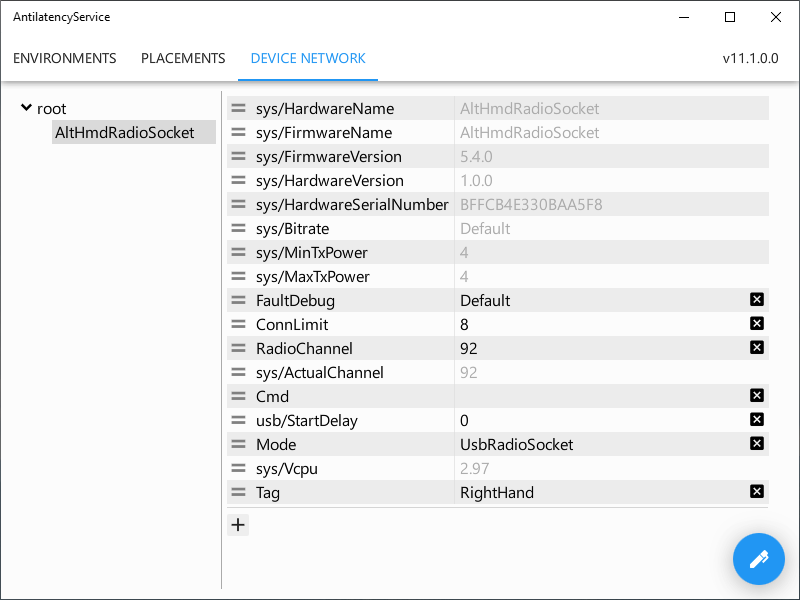
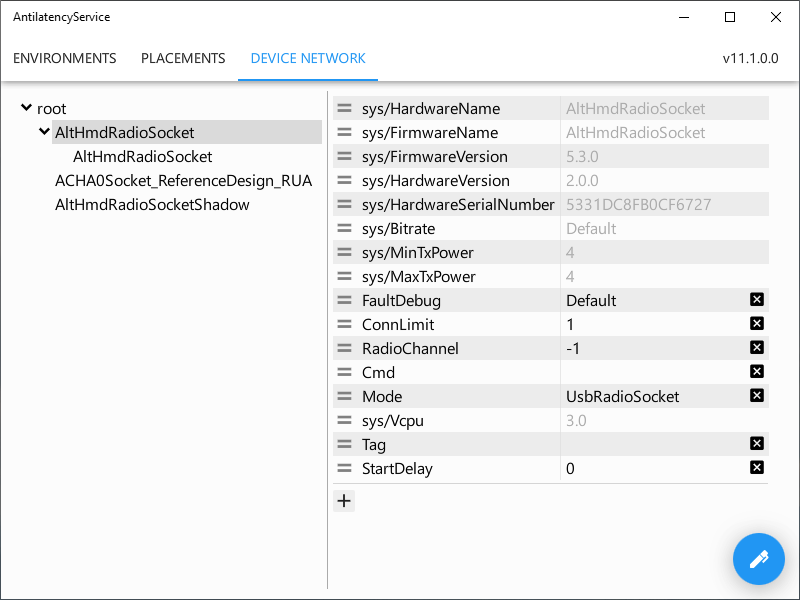
editted HMDSocketMode_ru

diff --git a/Assets/Tutorials/HMDSocketMode/HMDSocketMode_ru.cs b/Assets/Tutorials/HMDSocketMode/HMDSocketMode_ru.cs
@@ -33,14 +33,15 @@ public partial class Tutorials : Scope {
     [new Section("RadioSocket (wireless)")
 
 
-        [$"С версии прошивки 5.0.0 {Hardware.SocketUsbRadio} в wireless-режиме отображается в {Terms.Device_Tree} под именем *AltHmdRadioSocketShadow*. Для этого устройство необходимо подключить через USB. \nПри этом вам доступны все возможности для настройки параметров wireless режима: можно установить маску каналов, прописать серийный номер radio master или изменить режим работы."]
-
+        [$"С версии прошивки 5.0.0 {Hardware.SocketUsbRadio} в wireless-режиме отображается дополнительным узлом в {Terms.Device_Tree} под именем *AltHmdRadioSocketShadow*. Для этого устройство необходимо подключить через USB.  \nПри этом вам доступны все возможности для настройки параметров wireless режима: можно установить маску каналов, прописать серийный номер приёмника или изменить режим работы."]
+            [new Info($"Если вы подключите {Terms.Socket} в режиме wireless одновременно через USB и к {Terms.Socket} в режиме wired, то устройство дважды отобразится в {Terms.Device_Tree} под разными именами.")]
         [RadioSocket]
+        [RadioSocket1]
 
         [$"\n*Уникальные свойства:*"]
 
         [new UnorderedList()
-            [$"`MasterSN` - свойство, содержащее серийный номер приёмника, к которому будет подключаться конкретный передатчик. Задать MasterSN можно в {Software.AntilatencyService.Material} или при помощи кнопки на устройстве. \n Подробнее читайте тут: {ConfiguringRadioDevices:SetMasterSoft}."]
+            [$"`MasterSN` - свойство содержит серийный номер приёмника, к которому будет подключаться конкретный передатчик. Задать MasterSN можно в {Software.AntilatencyService.Material} или при помощи кнопки на устройстве. \n Подробнее читайте тут: {ConfiguringRadioDevices:SetMasterSoft}."]
 
             [$@"`ChannelsMask` - свойство задаёт маску каналов, по которой передатчик будет искать приёмник. Это строка длиной  в 141 символ, состоящая из `0` и `1`, где `1` означает, что соответствующий канал будет использован при поиске приемника, а `0` - что канал будет проигнорирован. Первый символ в строке отвечает за последний, 140-й канал. Маска для каналов по умолчанию выглядит следующим образом: `000000000000000000001000001000000000000000000000100000000000000000000000001000000000000000000000001000000000000000000000000000000000000000000` Положение символов `1` в ней соответствует списку каналов, доступных по умолчанию.
             Вы можете прописать маску через `0` и `1` или использовать альтернативный формат записи: {new UnorderedList()

diff --git a/Assets/Software/AntilatencyService/DeviceNetwork/Device_Network_en.cs b/Assets/Software/AntilatencyService/DeviceNetwork/Device_Network_en.cs
@@ -22,7 +22,7 @@ public partial class Software : Scope {
     ]
     
     [new Section("\nCustom properties", $"")
-             [$"Write the custom properties to configure your device."]
+             [$"Use the custom properties to configure your device. For example, you can write the Tag `gun` for the specific VR gadget or `LeftHand` for the device on the left hand."]
     
      [new Info($"Please, read here how to set the custom properties: \n{Tutorials.Set_Device_Custom_Properties}")]
       ]

diff --git a/Assets/Tutorials/HMDSocketMode/HMDSocketMode.cs b/Assets/Tutorials/HMDSocketMode/HMDSocketMode.cs
@@ -4,4 +4,5 @@ public partial class Tutorials : Scope {
             public static LanguageSelector<IMaterial> HMDSocketMode => new LanguageSelector<IMaterial>();
             public static Image UsbRadioSocket = new Image("./Images/UsbRadioSocket.png");
             public static Image RadioSocket = new Image("./Images/RadioSocket.png");
+            public static Image RadioSocket1 = new Image("./Images/RadioSocket1.png");
         }
